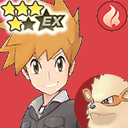
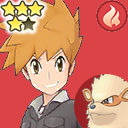
？

Changed region(s): [[0.25, 0.0312, 0.5625, 0.2812], [0.2188, 0.0, 0.3438, 0.0312]]

diff --git a/README.md b/README.md
@@ -155,7 +155,7 @@
 ## ⭐⭐⭐⭐
 ### 攻擊型
 <a href="https://mimirhenrystone.github.io/Sync-Grid/grids/大葉&烈焰猴.html"><img src="https://raw.githubusercontent.com/MiMirHenryStone/Sync-Grid/master/icons/大葉&烈焰猴.png" width="64" height="64">大葉&烈焰猴</a><br>
-<a href="https://mimirhenrystone.github.io/Sync-Grid/grids/青綠&風速狗.html"><img src="https://raw.githubusercontent.com/MiMirHenryStone/Sync-Grid/master/icons/青綠&風速狗.png" width="64" height="64"><img src="https://raw.githubusercontent.com/MiMirHenryStone/Sync-Grid/master/icons/★6ex_青綠&風速狗.png" width="64" height="64">青綠&風速狗</a><br>
+<a href="https://mimirhenrystone.github.io/Sync-Grid/grids/青綠&風速狗.html"><img src="https://raw.githubusercontent.com/MiMirHenryStone/Sync-Grid/master/icons/青綠&風速狗.png" width="64" height="64">青綠&風速狗</a><br>
 <a href="https://mimirhenrystone.github.io/Sync-Grid/grids/志米&鋼炮臂蝦.html"><img src="https://raw.githubusercontent.com/MiMirHenryStone/Sync-Grid/master/icons/志米&鋼炮臂蝦.png" width="64" height="64"><img src="https://raw.githubusercontent.com/MiMirHenryStone/Sync-Grid/master/icons/★6ex_志米&鋼炮臂蝦.png" width="64" height="64">志米&鋼炮臂蝦</a><br>
 <a href="https://mimirhenrystone.github.io/Sync-Grid/grids/哈烏&雷丘.html"><img src="https://raw.githubusercontent.com/MiMirHenryStone/Sync-Grid/master/icons/哈烏&雷丘.png" width="64" height="64">哈烏&雷丘</a><br>
 <a href="https://mimirhenrystone.github.io/Sync-Grid/grids/菜種&羅絲雷朵.html"><img src="https://raw.githubusercontent.com/MiMirHenryStone/Sync-Grid/master/icons/菜種&羅絲雷朵.png" width="64" height="64">菜種&羅絲雷朵</a><br>
